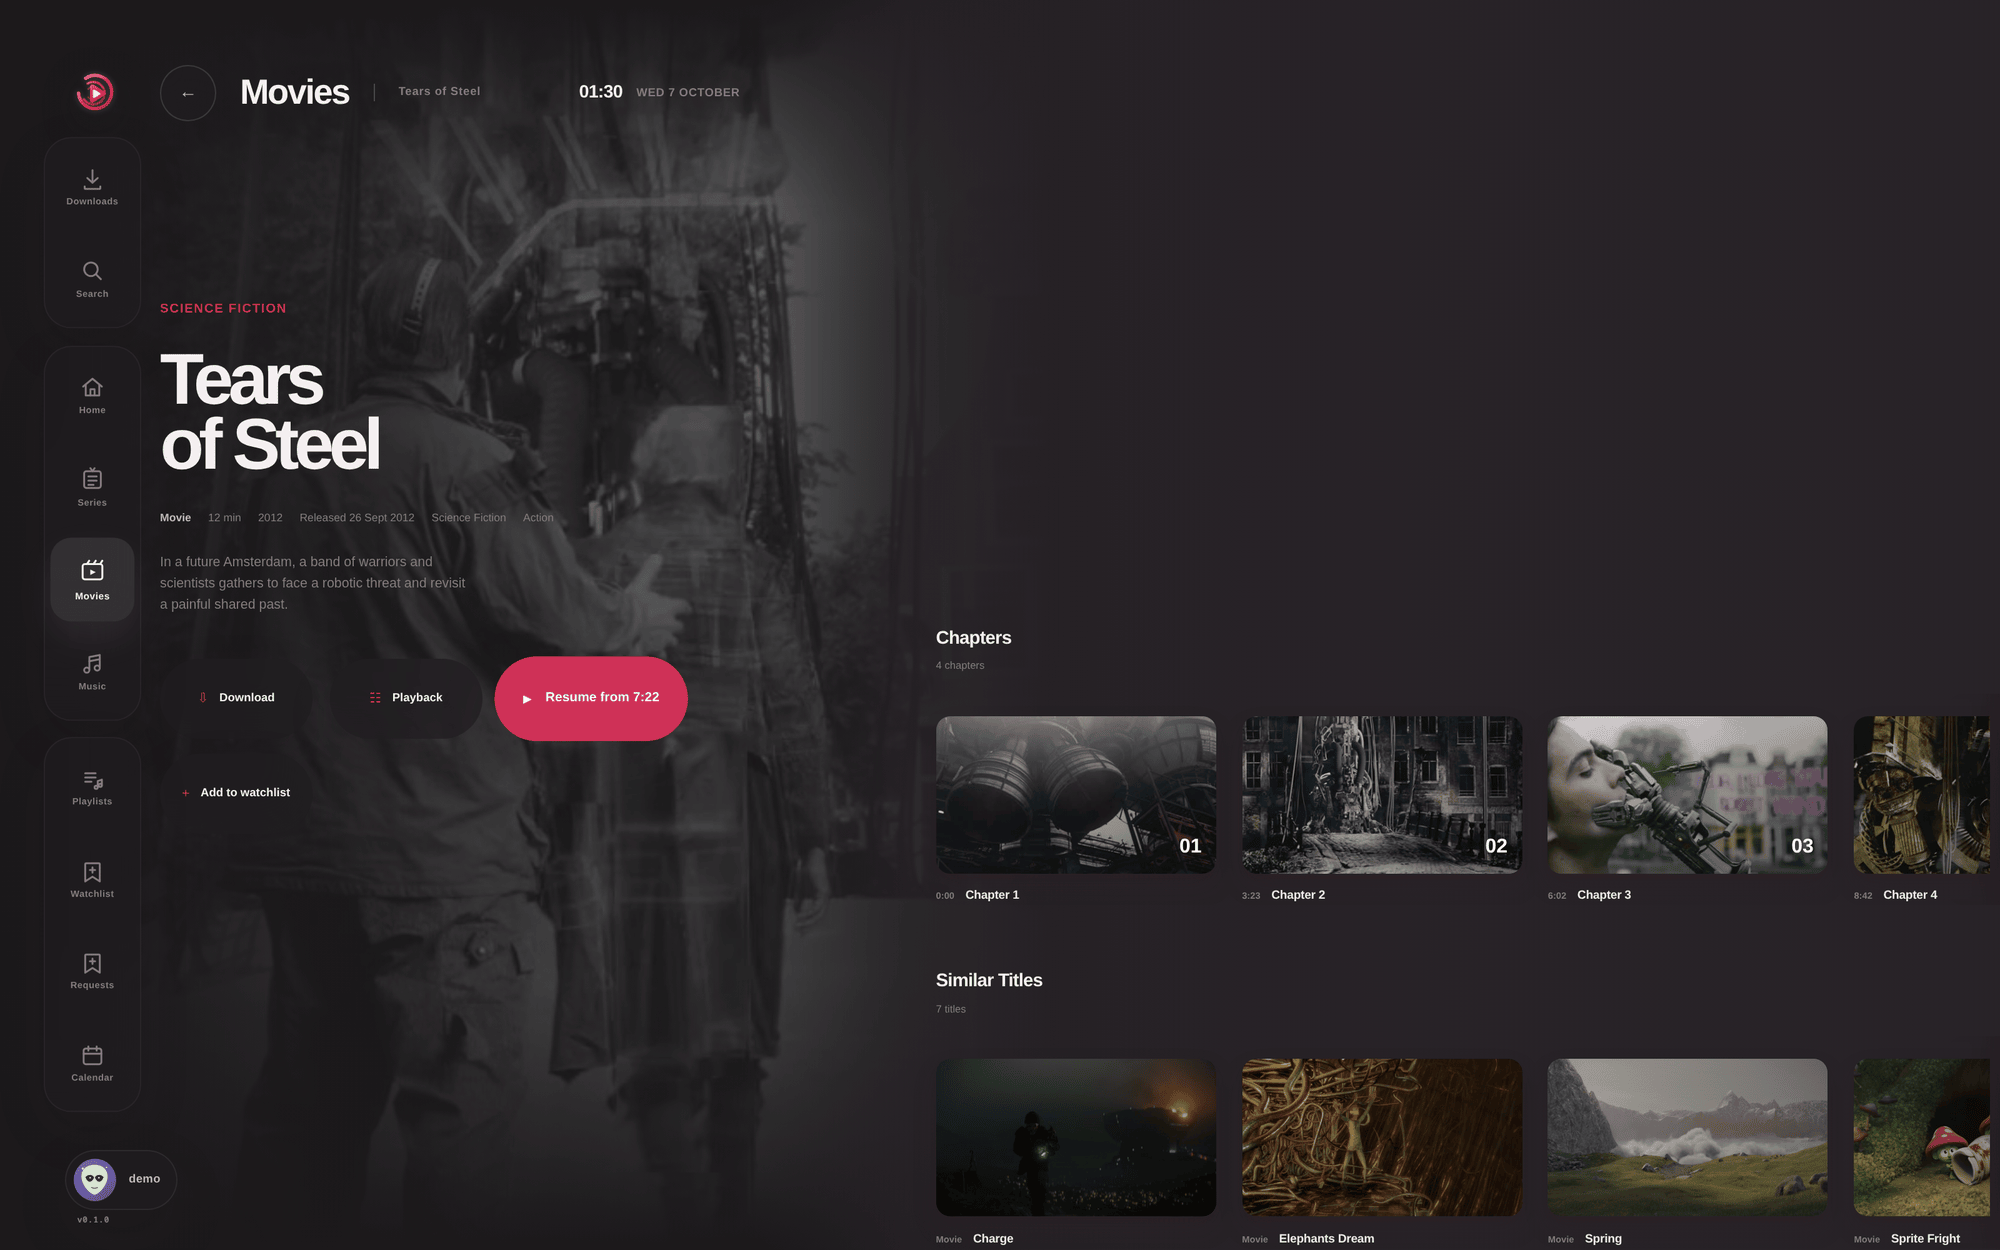
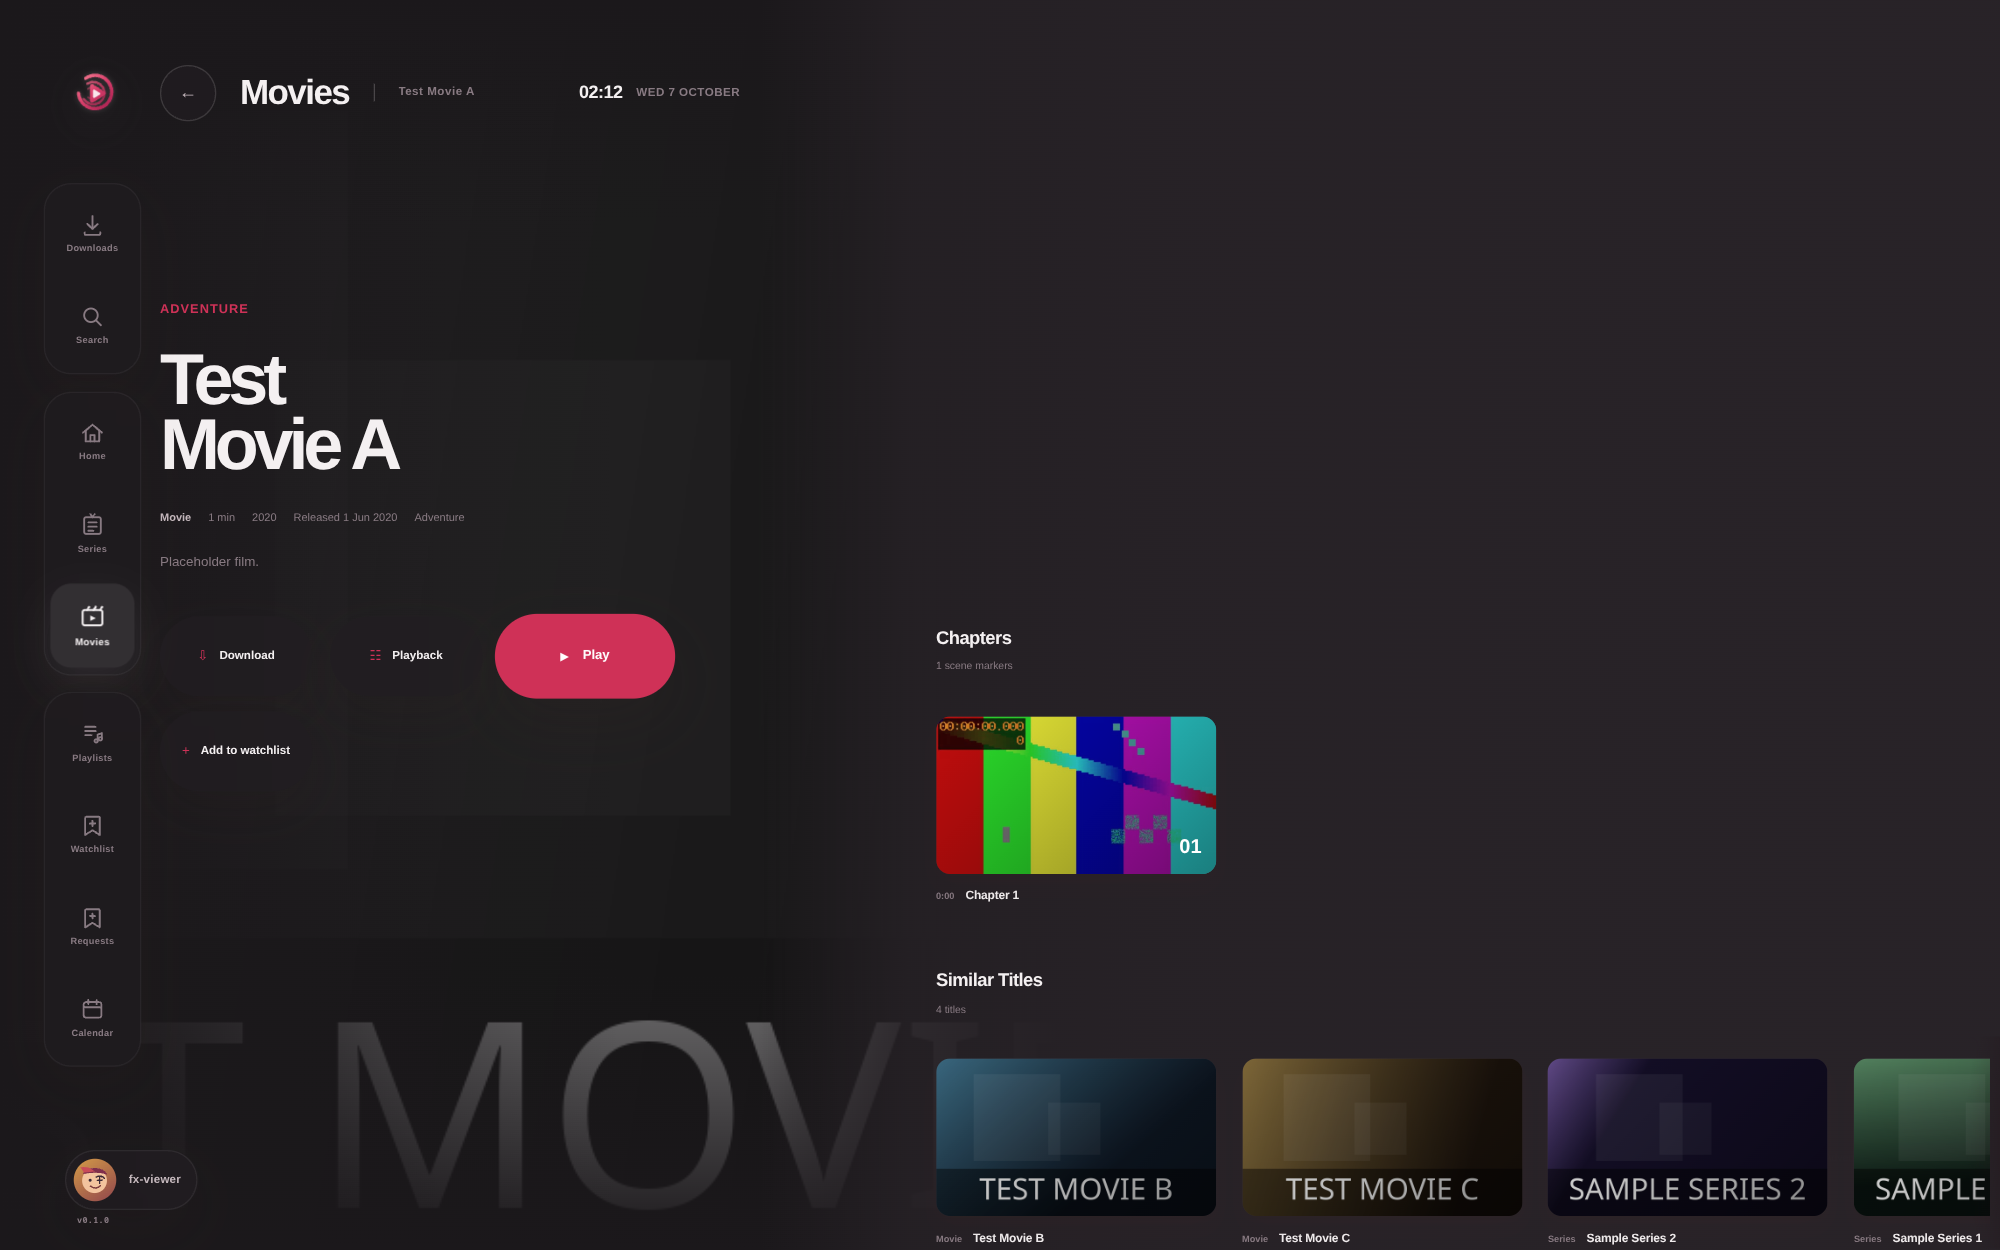
docs(readme): retake screenshots against the placeholder library and drop the screenshot attribution tables

diff --git a/README.md b/README.md
@@ -36,7 +36,7 @@
 <td width="50%" align="center"><img src="docs/assets/readme/screenshots/web-series-detail.png" alt="Series detail page listing a season of episodes" width="420"><br><sub><b>Series detail</b><br>Seasons, episodes and one-click resume.</sub></td>
 </tr>
 <tr>
-<td width="50%" align="center"><img src="docs/assets/readme/screenshots/web-music-album.png" alt="Music album page with cover art and track list" width="420"><br><sub><b>Music album</b><br>Cover art, track list and now-playing line.</sub></td>
+<td width="50%" align="center"><img src="docs/assets/readme/screenshots/web-calendar.png" alt="Calendar page listing an upcoming episode" width="420"><br><sub><b>Calendar</b><br>Upcoming episodes and releases from your source apps.</sub></td>
 <td width="50%" align="center"><img src="docs/assets/readme/screenshots/web-movies-library.png" alt="Movies library grid with alphabet scrubber" width="420"><br><sub><b>Movies library</b><br>Artwork grid with an A to Z scrubber and filters.</sub></td>
 </tr>
 <tr>
@@ -48,7 +48,7 @@
 </tr>
 </table>
 
-<p align="center"><sub>The demo library uses openly licensed films and music; see <a href="#third-party-media">Third-party media</a> for the full attribution.</sub></p>
+<p align="center"><sub>The demo library is a placeholder library with generated artwork; no real titles or artwork are shown.</sub></p>
 
 # Playarr Server / Playarr
 
@@ -270,51 +270,10 @@ Please do not report vulnerabilities in public issues. See [`SECURITY.md`](SECUR
 Big Buck Bunny, (c) copyright 2008, Blender Foundation / www.bigbuckbunny.org,
 is licensed under [Creative Commons Attribution 3.0](https://creativecommons.org/licenses/by/3.0/)
 (see <https://peach.blender.org/about/>). It is used only by the Google Play
-review demo server (`clients/tv-web/apps/play-review-server`), in the Android
-Play store screenshots (`clients/android/fastlane/metadata/android/en-US/images/`)
-and in the README screenshots. It is not distributed in the app. The licence does not
-cover Blender or Big Buck Bunny logos or trademarks, and none are used.
-
-The screenshots in this README were taken against a demo library built only from
-openly licensed films and music. These titles appear only in the README screenshots
-and are not distributed in the app. Each is used under the licence shown, with
-credit to the holder.
-
-<details>
-<summary>Films and series (Blender Foundation and Blender Studio)</summary>
-
-| Title | Credit | Licence | Source |
-|---|---|---|---|
-| Big Buck Bunny (2008) | (c) copyright 2008, Blender Foundation, www.bigbuckbunny.org | [CC BY 3.0](https://creativecommons.org/licenses/by/3.0/) | [Wikimedia Commons](https://commons.wikimedia.org/wiki/File:Big_Buck_Bunny_4K.webm) |
-| Sintel (2010) | (c) copyright Blender Foundation, www.sintel.org | [CC BY 3.0](https://creativecommons.org/licenses/by/3.0/) | [Wikimedia Commons](https://commons.wikimedia.org/wiki/File:Sintel_movie_4K.webm) |
-| Tears of Steel (2012) | (CC) Blender Foundation, mango.blender.org | [CC BY 3.0](https://creativecommons.org/licenses/by/3.0/) | [Wikimedia Commons](https://commons.wikimedia.org/wiki/File:Tears_of_Steel_1080p.webm) |
-| Elephants Dream (2006) | (c) copyright 2006, Blender Foundation / Netherlands Media Art Institute, www.elephantsdream.org; poster by Bassam Kurdali, Andy Goralczyk and the Blender Foundation (CC BY 4.0) | [CC BY 2.5](https://creativecommons.org/licenses/by/2.5/) | [Wikimedia Commons](https://commons.wikimedia.org/wiki/File:Elephants_Dream_(2006).webm) |
-| Spring (2019) | (c) Blender Studio, studio.blender.org; poster by Francesco Siddi | [CC BY 4.0](https://creativecommons.org/licenses/by/4.0/) | [Wikimedia Commons](https://commons.wikimedia.org/wiki/File:Spring_-_Blender_Open_Movie.webm) |
-| Sprite Fright (2021) | (c) Blender Studio, studio.blender.org | [CC BY 4.0](https://creativecommons.org/licenses/by/4.0/) | [Wikimedia Commons](https://commons.wikimedia.org/wiki/File:Sprite_Fright_-_Open_Movie_by_Blender_Studio.webm) |
-| Charge (2022) | (c) Blender Studio, studio.blender.org | [CC BY 4.0](https://creativecommons.org/licenses/by/4.0/) | [Wikimedia Commons](https://commons.wikimedia.org/wiki/File:Charge_-_Blender_Open_Movie-full_movie.webm) |
-| Caminandes: Llama Drama, Gran Dillama and Llamigos (series, 2013 onwards) | (c) Blender Foundation, www.caminandes.com (Pablo Vazquez, Beorn Leonard, Francesco Siddi) | [CC BY 3.0](https://creativecommons.org/licenses/by/3.0/) | [Llama Drama](https://commons.wikimedia.org/wiki/File:Caminandes-_Llama_Drama_-_Short_Movie.ogv), [Gran Dillama](https://download.blender.org/demo/movies/caminandes_gran_dillama.mp4.zip), [Llamigos](https://commons.wikimedia.org/wiki/File:Caminandes_3_-_Llamigos_-_Blender_Animated_Short.webm) |
-
-Posters and backdrops are the project posters or single frames taken from the films. The
-screenshot library uses small re-encodes, and episode air dates in the demo catalogue are approximate.
-
-</details>
-
-<details>
-<summary>Music (archive.org)</summary>
-
-Only metadata and cover art come from these releases; the audio in the demo library is synthetic.
-
-| Album | Credit | Licence | Source |
-|---|---|---|---|
-| The Black Hole | Chris Zabriskie | [CC BY 4.0](https://creativecommons.org/licenses/by/4.0/) | [archive.org](https://archive.org/details/cz-blackhole) |
-| Directionless EP | Broke For Free | [CC BY 3.0](https://creativecommons.org/licenses/by/3.0/) | [archive.org](https://archive.org/details/DirectionlessEP) |
-| Music For Podcasts 2 | Lee Rosevere | [CC BY 3.0](https://creativecommons.org/licenses/by/3.0/) | [archive.org](https://archive.org/details/MusicForPodcasts02) |
-| Music For Podcasts 4 | Lee Rosevere | [CC BY 3.0](https://creativecommons.org/licenses/by/3.0/) | [archive.org](https://archive.org/details/MusicForPodcasts04) |
-| Harmony | Gurdonark and Lee Rosevere | [CC BY 4.0](https://creativecommons.org/licenses/by/4.0/) | [archive.org](https://archive.org/details/Gurdonark_LeeRosevere_Harmony) |
-
-The cover art sits inside each CC BY item; no item page states a separate cover-art licence.
-
-</details>
+review demo server (`clients/tv-web/apps/play-review-server`). It is not distributed
+in the app. The licence does not cover Blender or Big Buck Bunny logos or trademarks,
+and none are used. Every screenshot in this repository is taken against a placeholder
+library with generated artwork.
 
 ## Licence
 
